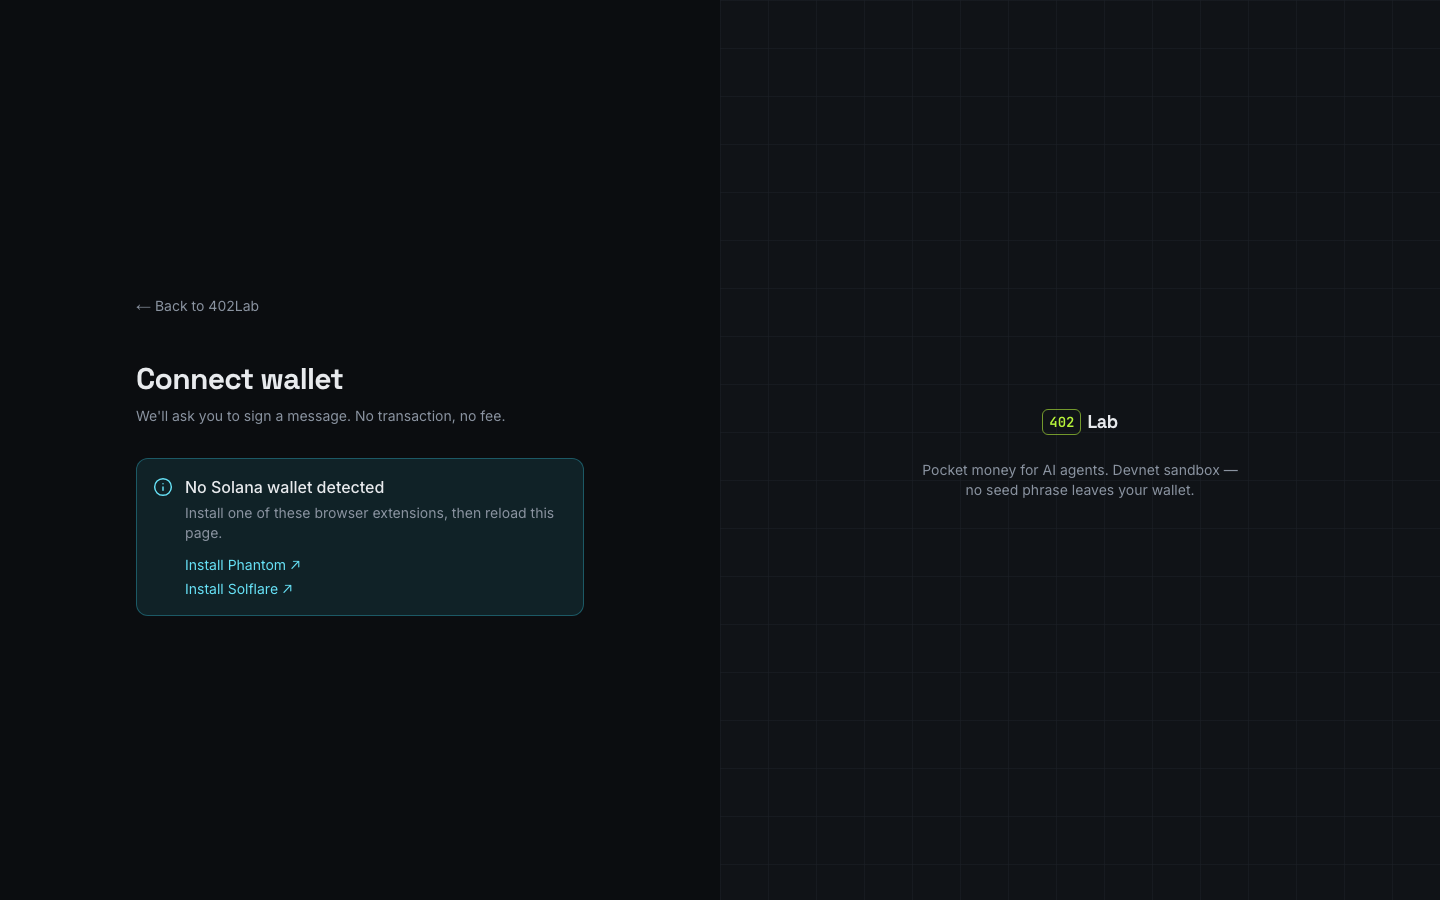
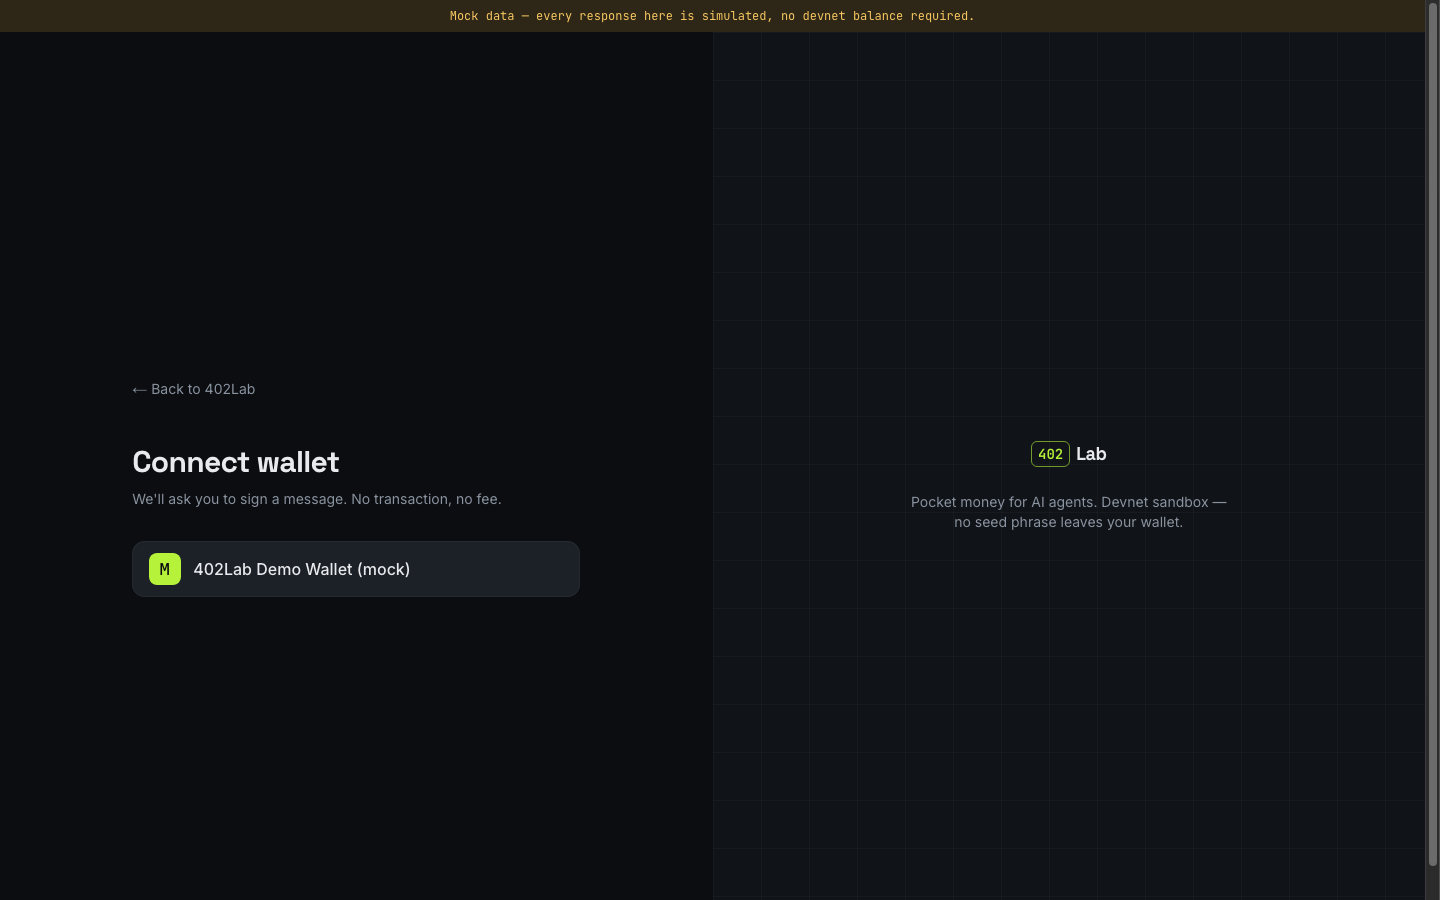
fix(web): keep the app header inside 375px
The wallet-address pill plus Log out never fit 375px together,
clipping the button under overflow-hidden with no visible scrollbar.
Hide the pill below sm and reuse the shared shortAddress formatter.
Capture every panel screen at 375/1440 against mock data for the
record.

diff --git a/apps/web/src/layout/app-header.tsx b/apps/web/src/layout/app-header.tsx
@@ -9,8 +9,7 @@ import { DevnetBadge } from '@/components/ui/devnet-badge';
 import { Wordmark } from '@/components/ui/wordmark';
 import { useSidebar } from '@/context/sidebar-context';
 import { useSession } from '@/shared/auth/session-context';
-
-const shortAddress = (address: string): string => `${address.slice(0, 4)}…${address.slice(-4)}`;
+import { shortAddress } from '@/shared/format/address';
 
 export const AppHeader = () => {
   const t = useTranslations('header');
@@ -46,7 +45,7 @@ export const AppHeader = () => {
       </div>
       <div className="flex items-center gap-3">
         {address && (
-          <span className="inline-flex min-h-11 items-center gap-1.5 rounded-[6px] border border-line bg-raised px-3 font-mono text-sm text-text">
+          <span className="hidden min-h-11 items-center gap-1.5 rounded-[6px] border border-line bg-raised px-3 font-mono text-sm text-text sm:inline-flex">
             <Wallet aria-hidden="true" className="size-4 text-brand-500" />
             {shortAddress(address)}
           </span>
